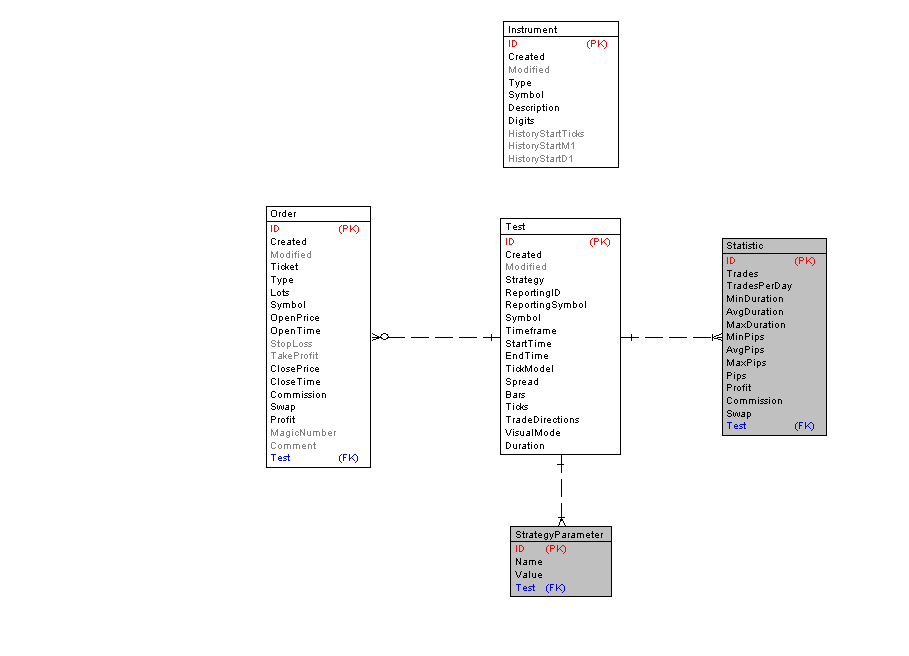
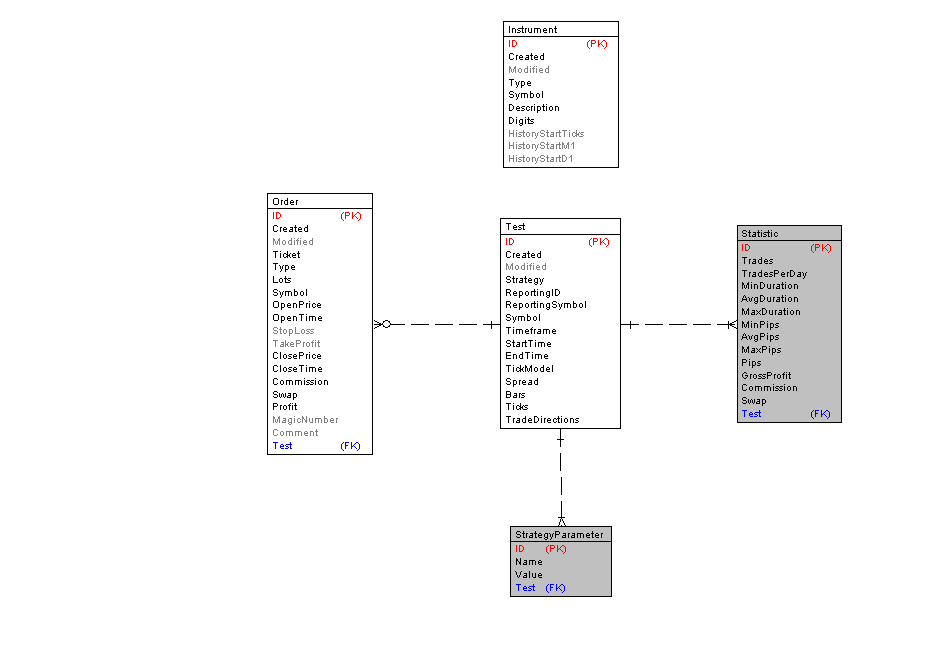
remove Test.visualMode and Test.duration from the model

diff --git a/etc/db/xtrade/html/EntityB.html b/etc/db/xtrade/html/EntityB.html
@@ -199,13 +199,13 @@
   <tr>
     <td class="tabdata" >     </td>    <td class="tabdata" > MaxPips    </td>    <td class="tabdata" > Decimal (10,1)    </td>    <td class="tabdata" > YES    </td>    <td class="tabdata" > NO    </td>    <td class="tabdata"  colspan="2"> maximum trade profit in pips    </td>  </tr>
   <tr>
-    <td class="tabdata" >     </td>    <td class="tabdata" > Pips    </td>    <td class="tabdata" > Decimal (10,1)    </td>    <td class="tabdata" > YES    </td>    <td class="tabdata" > NO    </td>    <td class="tabdata"  colspan="2"> full test profit in pips    </td>  </tr>
+    <td class="tabdata" >     </td>    <td class="tabdata" > Pips    </td>    <td class="tabdata" > Decimal (10,1)    </td>    <td class="tabdata" > YES    </td>    <td class="tabdata" > NO    </td>    <td class="tabdata"  colspan="2"> total profit in pips    </td>  </tr>
   <tr>
-    <td class="tabdata" >     </td>    <td class="tabdata" > Profit    </td>    <td class="tabdata" > Decimal (10,2)    </td>    <td class="tabdata" > YES    </td>    <td class="tabdata" > NO    </td>    <td class="tabdata"  colspan="2"> test gross profit in money    </td>  </tr>
+    <td class="tabdata" >     </td>    <td class="tabdata" > GrossProfit    </td>    <td class="tabdata" > Decimal (10,2)    </td>    <td class="tabdata" > YES    </td>    <td class="tabdata" > NO    </td>    <td class="tabdata"  colspan="2"> total gross profit in money    </td>  </tr>
   <tr>
-    <td class="tabdata" >     </td>    <td class="tabdata" > Commission    </td>    <td class="tabdata" > Decimal (10,2)    </td>    <td class="tabdata" > YES    </td>    <td class="tabdata" > NO    </td>    <td class="tabdata"  colspan="2"> test commission    </td>  </tr>
+    <td class="tabdata" >     </td>    <td class="tabdata" > Commission    </td>    <td class="tabdata" > Decimal (10,2)    </td>    <td class="tabdata" > YES    </td>    <td class="tabdata" > NO    </td>    <td class="tabdata"  colspan="2"> total commission    </td>  </tr>
   <tr>
-    <td class="tabdata" >     </td>    <td class="tabdata" > Swap    </td>    <td class="tabdata" > Decimal (10,2)    </td>    <td class="tabdata" > YES    </td>    <td class="tabdata" > NO    </td>    <td class="tabdata"  colspan="2"> test swap    </td>  </tr>
+    <td class="tabdata" >     </td>    <td class="tabdata" > Swap    </td>    <td class="tabdata" > Decimal (10,2)    </td>    <td class="tabdata" > YES    </td>    <td class="tabdata" > NO    </td>    <td class="tabdata"  colspan="2"> total swap    </td>  </tr>
   <tr>
     <td class="tabdata" > FK    </td>    <td class="tabdata" > ID/Test    </td>    <td class="tabdata" > Integer    </td>    <td class="tabdata" > YES    </td>    <td class="tabdata"  colspan="3"> YES   </td>  </tr>
 </table>
@@ -352,11 +352,7 @@
   <tr>
     <td class="tabdata" >     </td>    <td class="tabdata" > Ticks    </td>    <td class="tabdata" > Integer    </td>    <td class="tabdata" > YES    </td>    <td class="tabdata"  colspan="3"> NO    </td>  </tr>
   <tr>
-    <td class="tabdata" >     </td>    <td class="tabdata" > TradeDirections    </td>    <td class="tabdata" > Enum    </td>    <td class="tabdata" > YES    </td>    <td class="tabdata" > NO    </td>    <td class="tabdata"  colspan="2"> Long | Short | Both    </td>  </tr>
-  <tr>
-    <td class="tabdata" >     </td>    <td class="tabdata" > VisualMode    </td>    <td class="tabdata" > Bool    </td>    <td class="tabdata" > YES    </td>    <td class="tabdata"  colspan="3"> NO    </td>  </tr>
-  <tr>
-    <td class="tabdata" >     </td>    <td class="tabdata" > Duration    </td>    <td class="tabdata" > Integer    </td>    <td class="tabdata" > YES    </td>    <td class="tabdata" > NO    </td>    <td class="tabdata"  colspan="2"> test duration in seconds   </td>  </tr>
+    <td class="tabdata" >     </td>    <td class="tabdata" > TradeDirections    </td>    <td class="tabdata" > Enum    </td>    <td class="tabdata" > YES    </td>    <td class="tabdata" > NO    </td>    <td class="tabdata"  colspan="2"> Long | Short | Both   </td>  </tr>
 </table>
 
 <div class="caption2">Relationships</div>

diff --git a/etc/db/xtrade/html/MInfoB.html b/etc/db/xtrade/html/MInfoB.html
@@ -27,7 +27,7 @@
   <tr>
     <td class="tabhead" > Created    </td>    <td class="tabdata" > 16.01.2017    </td>  </tr>
   <tr>
-    <td class="tabhead" > Last modified    </td>    <td class="tabdata" > 20.04.2017   </td>  </tr>
+    <td class="tabhead" > Last modified    </td>    <td class="tabdata" > 09.06.2017   </td>  </tr>
 </table>
 
  <br><br> 
@@ -37,7 +37,7 @@
   <tr>
     <td class="tabhead"  width="25%"> Entities    </td>    <td class="tabdata"  colspan="3"> 5    </td>    <td class="tabhead" > Independent    </td>    <td class="tabdata" > 5    </td>    <td class="tabhead" > Dependent    </td>    <td class="tabdata" > 0    </td>  </tr>
   <tr>
-    <td class="tabhead" > Attributes    </td>    <td class="tabdata"  colspan="3"> 64    </td>    <td class="tabhead" > PK    </td>    <td class="tabdata" > 5    </td>    <td class="tabhead" > PFK    </td>    <td class="tabdata" > 0    </td>  </tr>
+    <td class="tabhead" > Attributes    </td>    <td class="tabdata"  colspan="3"> 62    </td>    <td class="tabhead" > PK    </td>    <td class="tabdata" > 5    </td>    <td class="tabhead" > PFK    </td>    <td class="tabdata" > 0    </td>  </tr>
   <tr>
     <td class="tabhead" > User types    </td>    <td class="tabdata"  colspan="7"> 0    </td>  </tr>
   <tr>

diff --git a/etc/db/xtrade/html/MImageB.html b/etc/db/xtrade/html/MImageB.html
@@ -17,9 +17,9 @@
 </p>
 <map name="map0" id="map0">
 <area shape="rect" coords="503,21,619,168" href="EntityB.html#Entity_9" target="_blank" alt="Instrument" />
-<area shape="rect" coords="266,206,371,468" href="EntityB.html#Entity_5" target="_blank" alt="Order" />
-<area shape="rect" coords="722,237,827,436" href="EntityB.html#Entity_8" target="_blank" alt="Statistic" />
+<area shape="rect" coords="267,193,373,455" href="EntityB.html#Entity_5" target="_blank" alt="Order" />
+<area shape="rect" coords="737,225,842,423" href="EntityB.html#Entity_8" target="_blank" alt="Statistic" />
 <area shape="rect" coords="510,526,612,597" href="EntityB.html#Entity_7" target="_blank" alt="StrategyParameter" />
-<area shape="rect" coords="500,218,621,455" href="EntityB.html#Entity_1" target="_blank" alt="Test" />
+<area shape="rect" coords="500,218,621,429" href="EntityB.html#Entity_1" target="_blank" alt="Test" />
 </map>
 </body></html>

diff --git a/app/model/metatrader/Test.php b/app/model/metatrader/Test.php
@@ -36,8 +36,6 @@ use const rosasurfer\xtrade\TICKMODEL_BAROPEN;
  * @method int                 getBars()               Return the number of tested bars.
  * @method int                 getTicks()              Return the number of tested ticks.
  * @method string              getTradeDirections()    Return the enabled trade directions of the test.
- * @method bool                isVisualMode()          Return the visual mode status of the test.
- * @method int                 getDuration()           Return the test duration (in seconds).
  * @method Order[]             getTrades()             Return the trade history of the test.
  */
 class Test extends PersistableObject {
@@ -90,12 +88,6 @@ class Test extends PersistableObject {
 
     /** @var string - enabled trade directions: Long|Short|Both */
     protected $tradeDirections;
-
-    /** @var bool - whether or not the test was run in visual mode */
-    protected $visualMode;
-
-    /** @var int - test duration in seconds */
-    protected $duration;
 
     /** @var Order[] [transient] - trade history of the test */
     protected $trades;
@@ -200,19 +192,6 @@ class Test extends PersistableObject {
                 if (!is_int($ticks))                          throw new IllegalTypeException('Illegal type of property "ticks": '.getType($ticks));
                 if ($ticks <= 0)                              throw new InvalidArgumentException('Invalid property "ticks": '.$ticks.' (not positive)');
                 $test->ticks = $ticks;
-
-                $visualMode = $properties['visualMode'];
-                if (is_int($visualMode)) {
-                    if ($visualMode != (int)(bool)$visualMode) throw new InvalidArgumentException('Invalid property "visualMode": '.$visualMode.' (non-standard)');
-                    $visualMode = (bool)$visualMode;
-                }
-                else if (!is_bool($visualMode))               throw new IllegalTypeException('Illegal type of property "visualMode": '.getType($visualMode));
-                $test->visualMode = $visualMode;
-
-                $duration = $properties['duration'];
-                if (!is_int($duration))                       throw new IllegalTypeException('Illegal type of property "duration": '.getType($duration));
-                if ($duration <= 0)                           throw new InvalidArgumentException('Invalid property "duration": '.$duration.' (not positive)');
-                $test->duration = $duration;
 
                 if ($ticks == $bars+1)
                     $test->tickModel = MT4::tickModelDescription(TICKMODEL_BAROPEN);
@@ -344,7 +323,7 @@ class Test extends PersistableObject {
             $properties['id'] = (int)$matches[1][0];
             if (preg_match($pattern, $values, $matches, null, $matches[0][1]+1)) throw new IllegalArgumentException('Illegal test properties (multiple "id" occurrences): "'.$valuesOrig.'"');
 
-            // time (local time)
+            // time (local)
             $pattern = '/, *time *= *"([^"]+)" *,/i';
             if (!preg_match($pattern, $values, $matches, PREG_OFFSET_CAPTURE))   throw new IllegalArgumentException('Illegal test properties ("time" invalid or not found): "'.$valuesOrig.'"');
 
@@ -425,20 +404,6 @@ class Test extends PersistableObject {
             if (!preg_match($pattern, $values, $matches, PREG_OFFSET_CAPTURE))   throw new IllegalArgumentException('Illegal test properties ("ticks" invalid or not found): "'.$valuesOrig.'"');
             $properties['ticks'] = (int)$matches[1][0];
             if (preg_match($pattern, $values, $matches, null, $matches[0][1]+1)) throw new IllegalArgumentException('Illegal test properties (multiple "ticks" occurrences): "'.$valuesOrig.'"');
-
-            // visualMode
-            $pattern = '/, *visualMode *= *([^ ]+) *,/i';
-            if (!preg_match($pattern, $values, $matches, PREG_OFFSET_CAPTURE))   throw new IllegalArgumentException('Illegal test properties ("visualMode" invalid or not found): "'.$valuesOrig.'"');
-            if (is_null($mode = strToBool($matches[1][0])))                      throw new IllegalArgumentException('Illegal test property "visualMode": "'.$matches[1][0].'"');
-            $properties['visualMode'] = (int)$mode;
-            if (preg_match($pattern, $values, $matches, null, $matches[0][1]+1)) throw new IllegalArgumentException('Illegal test properties (multiple "visualMode" occurrences): "'.$valuesOrig.'"');
-
-            // duration
-            $pattern = '/, *duration *= *([^ ]+) *s? *,/i';
-            if (!preg_match($pattern, $values, $matches, PREG_OFFSET_CAPTURE))   throw new IllegalArgumentException('Illegal test properties ("duration" invalid or not found): "'.$valuesOrig.'"');
-            if (!strIsNumeric($duration = $matches[1][0]))                       throw new IllegalArgumentException('Illegal test property "duration": "'.$matches[1][0].'"');
-            $properties['duration'] = (int)round($duration);
-            if (preg_match($pattern, $values, $matches, null, $matches[0][1]+1)) throw new IllegalArgumentException('Illegal test properties (multiple "duration" occurrences): "'.$valuesOrig.'"');
         }
         finally { date_default_timezone_set($oldTimezone); }
 

diff --git a/app/model/metatrader/Statistic.php b/app/model/metatrader/Statistic.php
@@ -17,9 +17,9 @@ use rosasurfer\db\orm\PersistableObject;
  * @method float getAvgPips()      Return the average amount of won/lost pips of the statistics record.
  * @method float getMaxPips()      Return the maximum amount of won/loast of the statistics record.
  * @method float getPips()         Return the sum of all won/lost pips of the statistics record.
- * @method float getProfit()       Return the full gross profit of the statistics record.
- * @method float getCommission()   Return the full commission amount of the statistics record.
- * @method float getSwap()         Return the full swap amount of the statistics record.
+ * @method float getGrossProfit()  Return the total gross gross profit of the statistics record.
+ * @method float getCommission()   Return the total commission amount of the statistics record.
+ * @method float getSwap()         Return the total swap amount of the statistics record.
  * @method Test  getTest()         Return the test the statistics record belongs to.
  */
 class Statistic extends PersistableObject {
@@ -56,7 +56,7 @@ class Statistic extends PersistableObject {
     protected $pips;
 
     /** @var float */
-    protected $profit;
+    protected $grossProfit;
 
     /** @var float */
     protected $commission;
@@ -131,7 +131,7 @@ class Statistic extends PersistableObject {
         $stats->maxPips      = round($maxPips, 1);
         $stats->pips         = round($sumPips, 1);
 
-        $stats->profit       = round($profit, 2);
+        $stats->grossProfit  = round($profit, 2);
         $stats->commission   = round($commission, 2);
         $stats->swap         = round($swap, 2);
 

diff --git a/app/model/metatrader/TestDAO.php b/app/model/metatrader/TestDAO.php
@@ -3,7 +3,6 @@ namespace rosasurfer\xtrade\model\metatrader;
 
 use rosasurfer\db\orm\DAO;
 
-use const rosasurfer\db\orm\meta\BOOL;
 use const rosasurfer\db\orm\meta\FLOAT;
 use const rosasurfer\db\orm\meta\INT;
 use const rosasurfer\db\orm\meta\STRING;
@@ -40,8 +39,6 @@ class TestDAO extends DAO {
                 ['name'=>'bars'           , 'type'=>INT   ,                ],    // db:int
                 ['name'=>'ticks'          , 'type'=>INT   ,                ],    // db:int
                 ['name'=>'tradeDirections', 'type'=>STRING,                ],    // db:text[enum] references enum_tradedirection(type)
-                ['name'=>'visualMode'     , 'type'=>BOOL  ,                ],    // db:int[bool]
-                ['name'=>'duration'       , 'type'=>INT   ,                ],    // db:int
             ],
             'relations' => [
                 ['name'=>'strategyParameters', 'assoc'=>'one-to-many', 'type'=>StrategyParameter::class, 'ref-column'=>'test_id'],

diff --git a/app/model/metatrader/StatisticDAO.php b/app/model/metatrader/StatisticDAO.php
@@ -32,7 +32,7 @@ class StatisticDAO extends DAO {
                 ['name'=>'avgPips'     , 'type'=>FLOAT, 'column'=>'pips_avg'    ],                  // db:float
                 ['name'=>'maxPips'     , 'type'=>FLOAT, 'column'=>'pips_max'    ],                  // db:float
                 ['name'=>'pips'        , 'type'=>FLOAT,                         ],                  // db:float
-                ['name'=>'profit'      , 'type'=>FLOAT,                         ],                  // db:float
+                ['name'=>'grossProfit' , 'type'=>FLOAT, 'column'=>'gross_profit'],                  // db:float
                 ['name'=>'commission'  , 'type'=>FLOAT,                         ],                  // db:float
                 ['name'=>'swap'        , 'type'=>FLOAT,                         ],                  // db:float
             ],
